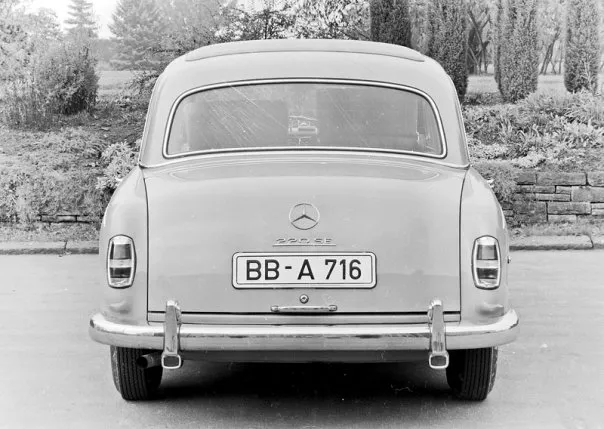
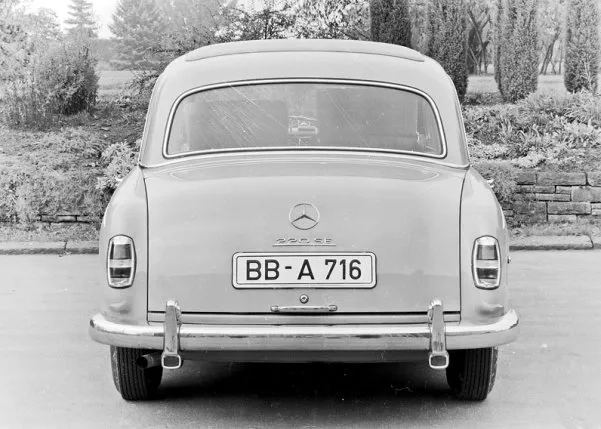
246

diff --git a/pic/ja_mb_img_s.html b/pic/ja_mb_img_s.html
@@ -410,7 +410,7 @@
 				<h3 class="i m0">W128</h3>
 				<p class="i m1">1958 - 1960</p><br>
 				<a href="full/s/w128_f.jpg"><img loading="lazy" src="style/s/w128_f.webp" alt="メルセデス,W128,フロント" width="604" height="429"></a>
-				<a href="full/s/w128_r.jpg"><img loading="lazy" src="style/s/w128_r.webp" alt="メルセデス,W180,リヤ" width="604" height="429"></a>
+				<a href="full/s/w128_r.jpg"><img loading="lazy" src="style/s/w128_r.webp" alt="メルセデス,W180,リヤ" width="601" height="429"></a>
 			</div>
 		</section>
 

diff --git a/pic/mb_img_s.html b/pic/mb_img_s.html
@@ -409,7 +409,7 @@
 				<h3 class="i m0">W128</h3>
 				<p class="i m1">1958 - 1960</p><br>
 				<a href="full/s/w128_f.jpg"><img loading="lazy" src="style/s/w128_f.webp" alt="Mercedes,W128,Frontansicht" width="604" height="429"></a>
-				<a href="full/s/w128_r.jpg"><img loading="lazy" src="style/s/w128_r.webp" alt="Mercedes,W180,Rückansicht" width="604" height="429"></a>
+				<a href="full/s/w128_r.jpg"><img loading="lazy" src="style/s/w128_r.webp" alt="Mercedes,W180,Rückansicht" width="601" height="429"></a>
 			</div>
 		</section>
 

diff --git a/pic/en_mb_img_s.html b/pic/en_mb_img_s.html
@@ -410,7 +410,7 @@
 				<h3 class="i m0">W128</h3>
 				<p class="i m1">1958 - 1960</p><br>
 				<a href="full/s/w128_f.jpg"><img loading="lazy" src="style/s/w128_f.webp" alt="Mercedes,W128,Front view" width="604" height="429"></a>
-				<a href="full/s/w128_r.jpg"><img loading="lazy" src="style/s/w128_r.webp" alt="Mercedes,W180,Rear view" width="604" height="429"></a>
+				<a href="full/s/w128_r.jpg"><img loading="lazy" src="style/s/w128_r.webp" alt="Mercedes,W180,Rear view" width="601" height="429"></a>
 			</div>
 		</section>
 
